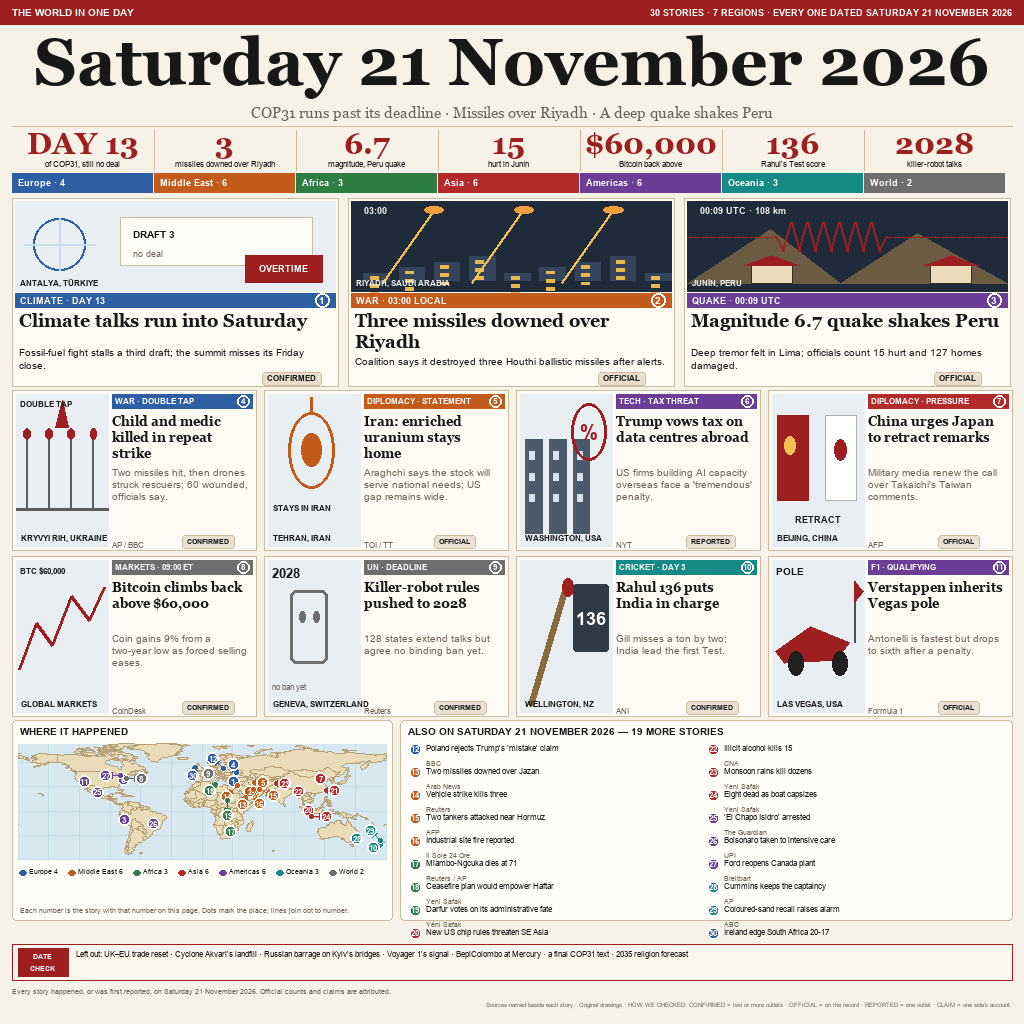
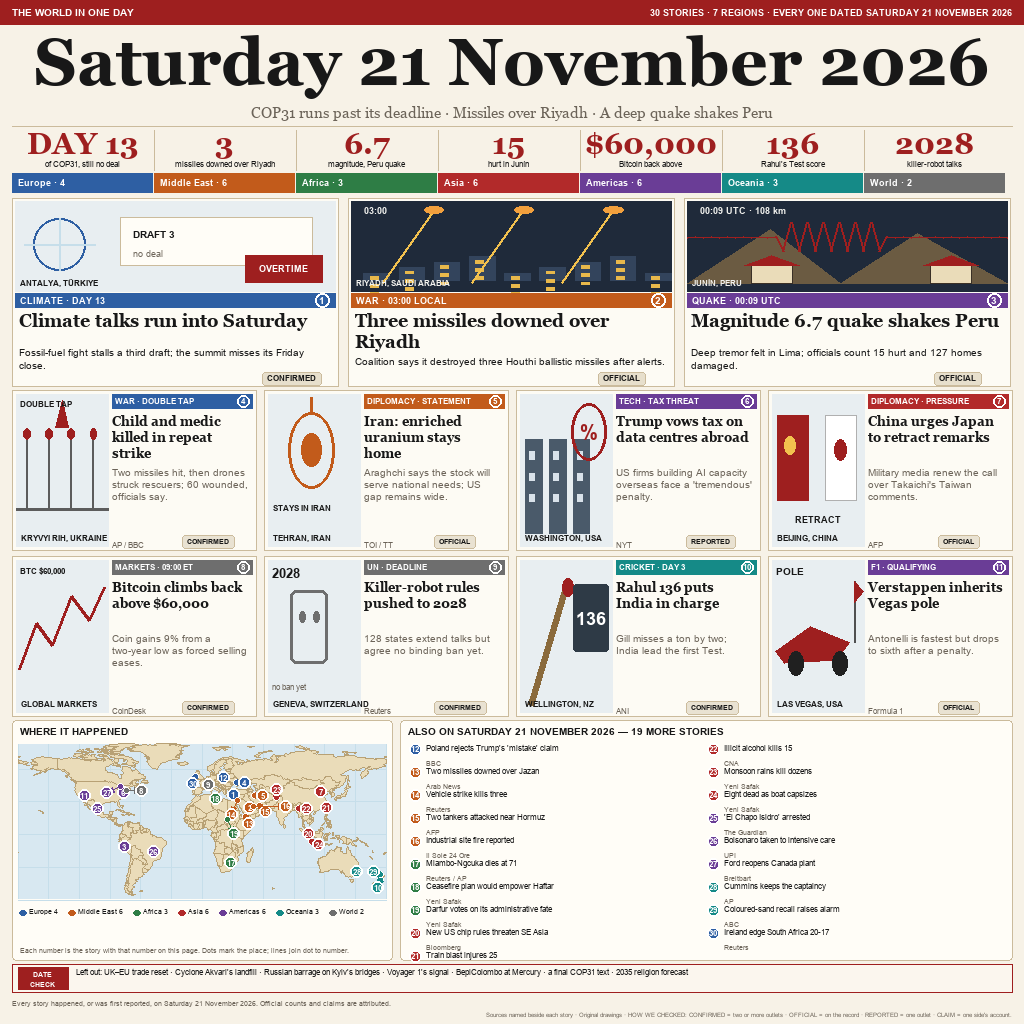
Extend map panel 40px downward

Changed region(s): [[0.0, 0.7188, 1.0, 1.0]]

diff --git a/render.py b/render.py
@@ -391,24 +391,24 @@ def build(out="entry.png"):
         put(d, (x + 100, y + 151), s["source"], font(7.5), MUTED)
         chip(d, x + cw - 74, y + 145, s["status"], fill="#E9E2D2", fsize=7)
 
-    map_panel(d, (12, 720, 392, 920))
-    list_panel(d, (400, 720, W - 12, 920))
+    map_panel(d, (12, 720, 392, 960))
+    list_panel(d, (400, 720, W - 12, 960))
 
     # Badge on the left; every body line starts at the same x as the first
     # line of content, never under the badge.
-    d.rectangle([12, 944, W - 12, 980], fill="#FBF6EE", outline=rgb(RED), width=1)
-    d.rectangle([18, 948, 68, 976], fill=rgb(RED), outline=rgb(RED), width=1)
-    put(d, (43, 956), "DATE", font(7, True), "#FFFFFF", anchor="mm")
-    put(d, (43, 968), "CHECK", font(7, True), "#FFFFFF", anchor="mm")
-    tx, ty = 76, 950
+    d.rectangle([12, 964, W - 12, 992], fill="#FBF6EE", outline=rgb(RED), width=1)
+    d.rectangle([18, 967, 68, 989], fill=rgb(RED), outline=rgb(RED), width=1)
+    put(d, (43, 974), "DATE", font(7, True), "#FFFFFF", anchor="mm")
+    put(d, (43, 984), "CHECK", font(7, True), "#FFFFFF", anchor="mm")
+    tx, ty = 76, 968
     for ln in wrap(DATE_CHECK, font(7.5), W - tx - 20, d)[:2]:
         put(d, (tx, ty), ln, font(7.5), INK)
         ty += 11
-    put(d, (12, 988),
+    put(d, (12, 1000),
         "Every story happened, or was first reported, on Saturday 21 November 2026. "
         "Official counts and claims are attributed.",
         font(6.5), MUTED)
-    put(d, (W - 12, 1005), SOURCES_LINE, font(6), MUTED, anchor="rm")
+    put(d, (W - 12, 1015), SOURCES_LINE, font(6), MUTED, anchor="rm")
 
     im.save(out, "PNG", optimize=True)
     return out

diff --git a/audit.py b/audit.py
@@ -66,13 +66,13 @@ def main():
 
     # five coordinates checked by hand against the projection:
     # (story number, expected continent box in projected pixels)
-    mx0, my0, mx1, my1 = 18, 744, 386, 858
+    mx0, my0, mx1, my1 = 18, 744, 386, 898
     def proj(lon, lat):
         return (mx0 + (lon + 180) / 360 * (mx1 - mx0),
                 my0 + (83 - lat) / 141 * (my1 - my0))
-    spots = [(1, (210, 255, 750, 790), "Antalya"), (2, (230, 270, 765, 800), "Riyadh"),
-             (3, (105, 145, 815, 830), "Junin"), (10, (365, 390, 860, 855), "Wellington"),
-             (17, (210, 250, 845, 840), "Pretoria")]
+    spots = [(1, (210, 255, 750, 805), "Antalya"), (2, (230, 270, 765, 818), "Riyadh"),
+             (3, (105, 145, 815, 857), "Junin"), (10, (365, 390, 860, 890), "Wellington"),
+             (17, (210, 250, 845, 873), "Pretoria")]
     for n, (bx0, by0, bx1, by1), label in spots:
         s = next(x for x in STORIES if x["n"] == n)
         px, py = proj(s["lon"], s["lat"])
